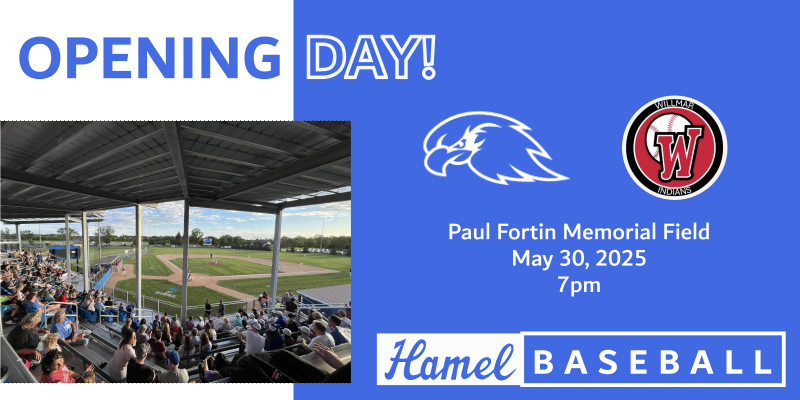
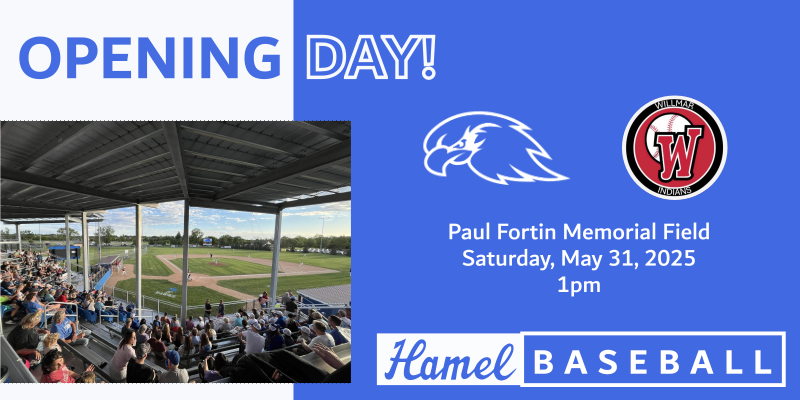
update opening day
game date/time changed

Changed region(s): [[0.5625, 0.6, 0.875, 0.75]]

diff --git a/news.html b/news.html
@@ -133,7 +133,7 @@
                         <span class="author">By Hamel Hawks</span> | <span class="date">April 01, 2025</span>
                     </div>
                     <p class="story-preview">
-                        The Hamel Hawks are gearing up for an exciting 2025 season, with the home opener scheduled for May 30th at Paul Fortin Memorial Field. Fans can expect a thrilling matchup against the newly-formed Willmar Indians.
+                        The Hamel Hawks are gearing up for an exciting 2025 season, with the home opener scheduled for May 31st at Paul Fortin Memorial Field. Fans can expect a thrilling matchup against the newly-formed Willmar Indians.
                     </p>
                     <p class="story-full" style="display: none;">
                         The team has been hard at work during the offseason, with big changes to the roster and a renewed focus on community engagement. 
